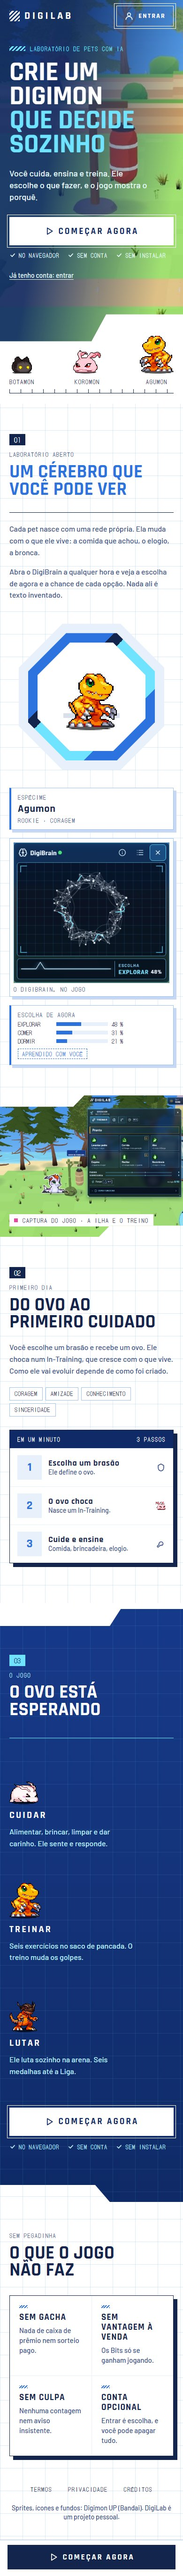
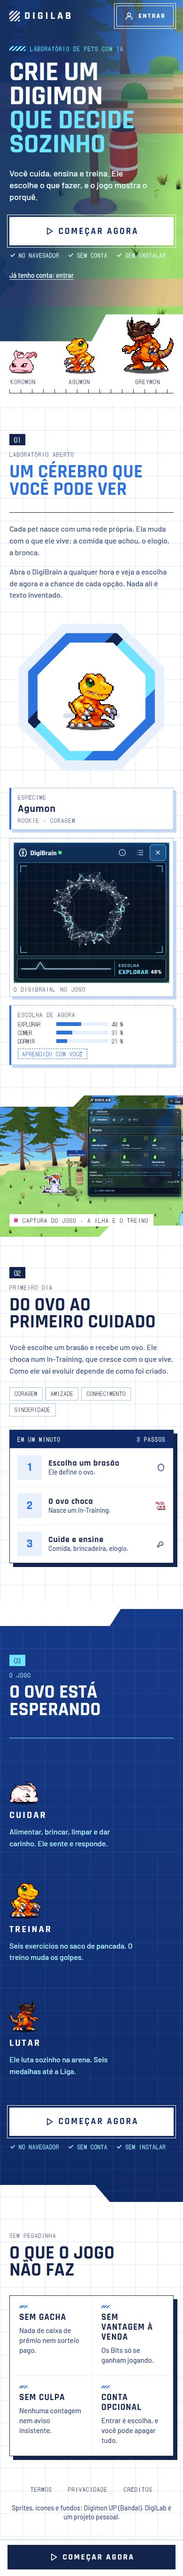
UX_TELA_PET: a regua do heroi com a linha do Agumon (Koromon a WarGreymon)

Changed region(s): [[0.6769, 0.1245, 0.9538, 0.1556], [0.3692, 0.1245, 0.5231, 0.1556], [0.0615, 0.1245, 0.1846, 0.1556]]

diff --git a/docs/pranchas/ux-pagina-inicial/inicial.html b/docs/pranchas/ux-pagina-inicial/inicial.html
@@ -23,10 +23,10 @@
     <a class="ja" href="#/config/conta">Já tenho conta: entrar</a>
   </div>
   <span class="corte" aria-hidden="true"></span>
-  <div class="fila" aria-label="Alguns dos Digimon do jogo"><figure><span class="pet" role="img" aria-label="Botamon" style="width:43px;height:36px;background-image:url('../../../../Assets/arena_up/sprites/Botamon.png');background-size:746px 562px;background-position:-48px -26px"></span><figcaption class="lcd"><b>Botamon</b><span class="nv"> · Fresh</span></figcaption></figure><figure><span class="pet vira" role="img" aria-label="Koromon" style="width:59px;height:49px;background-image:url('../../../../Assets/arena_up/sprites/Koromon.png');background-size:956px 668px;background-position:-60px -44px"></span><figcaption class="lcd"><b>Koromon</b><span class="nv"> · In-Training</span></figcaption></figure><figure><span class="pet vira" role="img" aria-label="Agumon" style="width:72px;height:80px;background-image:url('../../../../Assets/arena_up/sprites/Agumon.png');background-size:1062px 771px;background-position:-53px -19px"></span><figcaption class="lcd"><b>Agumon</b><span class="nv"> · Rookie</span></figcaption></figure><figure><span class="pet" role="img" aria-label="Tsunomon" style="width:53px;height:50px;background-image:url('../../../../Assets/arena_up/sprites/Tsunomon.png');background-size:712px 539px;background-position:-43px -30px"></span><figcaption class="lcd"><b>Tsunomon</b><span class="nv"> · In-Training</span></figcaption></figure><figure><span class="pet" role="img" aria-label="Gomamon" style="width:70px;height:56px;background-image:url('../../../../Assets/arena_up/sprites/Gomamon.png');background-size:1253px 1067px;background-position:-88px -85px"></span><figcaption class="lcd"><b>Gomamon</b><span class="nv"> · Rookie</span></figcaption></figure><figure><span class="pet" role="img" aria-label="Patamon" style="width:56px;height:68px;background-image:url('../../../../Assets/arena_up/sprites/Patamon.png');background-size:1372px 909px;background-position:-100px -44px"></span><figcaption class="lcd"><b>Patamon</b><span class="nv"> · Rookie</span></figcaption></figure></div>
+  <div class="fila" aria-label="A linha do Agumon, do In-Training ao Mega"><figure><span class="pet vira" role="img" aria-label="Koromon" style="width:59px;height:49px;background-image:url('../../../../Assets/arena_up/sprites/Koromon.png');background-size:956px 668px;background-position:-60px -44px"></span><figcaption class="lcd"><b>Koromon</b><span class="nv"> · In-Training</span></figcaption></figure><figure><span class="pet vira" role="img" aria-label="Agumon" style="width:68px;height:75px;background-image:url('../../../../Assets/arena_up/sprites/Agumon.png');background-size:996px 723px;background-position:-50px -18px"></span><figcaption class="lcd"><b>Agumon</b><span class="nv"> · Rookie</span></figcaption></figure><figure><span class="pet vira" role="img" aria-label="Greymon" style="width:110px;height:120px;background-image:url('../../../../Assets/arena_up/sprites/Greymon.png');background-size:1244px 1104px;background-position:-48px -24px"></span><figcaption class="lcd"><b>Greymon</b><span class="nv"> · Champion</span></figcaption></figure><figure><span class="pet vira" role="img" aria-label="MetalGreymon" style="width:144px;height:122px;background-image:url('../../../../Assets/arena_up/sprites/MetalGreymon.png');background-size:1733px 1096px;background-position:-88px -24px"></span><figcaption class="lcd"><b>MetalGreymon</b><span class="nv"> · Ultimate</span></figcaption></figure><figure><span class="pet vira" role="img" aria-label="WarGreymon" style="width:169px;height:136px;background-image:url('../../../../Assets/arena_up/sprites/WarGreymon_Adventure.png');background-size:3032px 2431px;background-position:-183px -194px"></span><figcaption class="lcd"><b>WarGreymon</b><span class="nv"> · Mega</span></figcaption></figure></div>
   <span class="regua" aria-hidden="true"></span>
   <span class="nota" style="right:20px;top:90px;max-width:320px">1 · a ideia do 'Explore 14K': a imagem grande (a ilha de verdade, de uma captura do jogo), o título em caixa alta e UM botão. Ele leva direto ao jogo (CN-1: sem conta)</span>
-  <span class="nota" style="right:20px;bottom:150px;max-width:300px">embaixo a imagem acaba num corte reto, em degrau (as formas do Valorant), e os pets ficam na borda, sobre uma régua de laboratório. Os nomes e os níveis são os do jogo</span>
+  <span class="nota" style="right:20px;bottom:150px;max-width:300px">embaixo a imagem acaba num corte reto, em degrau (as formas do Valorant), e os pets ficam na borda, sobre uma régua de laboratório. É a linha do Agumon no jogo (nomes.ts e formas.ts), do In-Training ao Mega; é uma das linhas possíveis, não a única</span>
 </section>
 
 <section class="sec" id="lab" aria-labelledby="t1">

diff --git a/docs/pranchas/ux-pagina-inicial/gerar.py b/docs/pranchas/ux-pagina-inicial/gerar.py
@@ -17,6 +17,8 @@
 #
 # DE ONDE VEM CADA AFIRMACAO DA PAGINA (nada do que ela diz e novo):
 #   "abre no navegador, sem conta e sem instalar" ..... docs/PLANO_V3_CONTA.md, CN-1
+#   a linha do Agumon na regua do heroi ............... web/app/motor/nomes.ts (DIGIMON_DA_FORMA: Koromon, Agumon, Greymon) e
+#                                                       motor/arena/formas.ts (MetalGreymon, Ultimate; WarGreymon, Mega)
 #   o brasao, o ovo, o primeiro cuidado ............... a jornada do jogo; os brasoes e os niveis: UI_GUIDELINES, secao 12
 #   as acoes Alimentar, Brincar, Limpar, Carinho ...... o dock da tela Pet
 #   o pet decide sozinho; o DigiBrain mostra a escolha  docs/PRODUTO_VISAO.md, secao 1; o scan do DigiBrain (ScanDigiBrain.tsx)
@@ -45,14 +47,20 @@ def ic(n: str, cls: str = "ic") -> str:
 
 
 def _primeira_faixa(ocupado: list) -> tuple[int, int]:
-    a = next(i for i, v in enumerate(ocupado) if v)
-    b = next((i for i in range(a, len(ocupado)) if not ocupado[i]), len(ocupado))
-    return a, b
+    """a primeira faixa ocupada com 8 px ou mais (algumas folhas tem um pixel solto antes do primeiro quadro)"""
+    i = 0
+    while True:
+        a = next(j for j in range(i, len(ocupado)) if ocupado[j])
+        b = next((j for j in range(a, len(ocupado)) if not ocupado[j]), len(ocupado))
+        if b - a >= 8:
+            return a, b
+        i = b
 
 
-def pet(nome: str, k: float, vira: bool = False) -> str:
+def pet(nome: str, k: float, vira: bool = False, arq: str = "") -> str:
     """o primeiro quadro da folha do Digimon (parado), achado pelo alfa: a primeira coluna de quadros e, nela, a primeira linha"""
-    im = Image.open(ASSETS / f"{nome}.png").convert("RGBA")
+    arq = arq or nome   # a folha, quando o primeiro quadro da folha do nome nao e o parado (o WarGreymon)
+    im = Image.open(ASSETS / f"{arq}.png").convert("RGBA")
     al = im.getchannel("A")
     W, H = im.size
     x0, x1 = _primeira_faixa([al.crop((x, 0, x + 1, H)).getbbox() is not None for x in range(W)])
@@ -60,7 +68,7 @@ def pet(nome: str, k: float, vira: bool = False) -> str:
     bx = al.crop((x0, y0, x1, y1)).getbbox()
     x0, x1 = x0 + bx[0], x0 + bx[2]
     return (f'<span class="pet{" vira" if vira else ""}" role="img" aria-label="{nome}" style="width:{(x1 - x0) * k:.0f}px;height:{(y1 - y0) * k:.0f}px;'
-            f"background-image:url('{G.A}/sprites/{nome}.png');background-size:{W * k:.0f}px {H * k:.0f}px;"
+            f"background-image:url('{G.A}/sprites/{arq}.png');background-size:{W * k:.0f}px {H * k:.0f}px;"
             f'background-position:{-x0 * k:.0f}px {-y0 * k:.0f}px"></span>')
 
 
@@ -90,11 +98,14 @@ TRILHAS = '''<svg class="trilhas" viewBox="0 0 1080 560" aria-hidden="true">
 </svg>'''
 
 
+ARQ = {"WarGreymon": "WarGreymon_Adventure"}   # a folha em que o primeiro quadro e o WarGreymon parado, sem a poeira do golpe
+
+
 def pagina() -> str:
     jogar = f'<a class="bt acao jogar" href="#/pet">{ic("play")}Começar agora</a>'
-    fila = "".join(f'<figure>{pet(n, k, v)}<figcaption class="lcd"><b>{n}</b><span class="nv"> · {nv}</span></figcaption></figure>'
-                   for n, k, v, nv in [("Botamon", 1.2, False, "Fresh"), ("Koromon", 1.2, True, "In-Training"), ("Agumon", 1.6, True, "Rookie"),
-                                       ("Tsunomon", 1.2, False, "In-Training"), ("Gomamon", 1.4, False, "Rookie"), ("Patamon", 1.3, False, "Rookie")])
+    fila = "".join(f'<figure>{pet(n, k, v, ARQ.get(n, ""))}<figcaption class="lcd"><b>{n}</b><span class="nv"> · {nv}</span></figcaption></figure>'
+                   for n, k, v, nv in [("Koromon", 1.2, True, "In-Training"), ("Agumon", 1.5, True, "Rookie"), ("Greymon", 2.0, True, "Champion"),
+                                       ("MetalGreymon", 1.4, True, "Ultimate"), ("WarGreymon", 2.2, True, "Mega")])
     brasoes = "".join(f'<span class="chip">{b}</span>' for b in ["Coragem", "Amizade", "Conhecimento", "Sinceridade"])
     ops = "".join(f'<span class="barra-op"><span>{o}</span><i><b style="width:{p}%"></b></i><span>{p} %</span></span>'
                   for o, p in [("explorar", 48), ("comer", 31), ("dormir", 21)])
@@ -123,10 +134,10 @@ def pagina() -> str:
     <a class="ja" href="#/config/conta">Já tenho conta: entrar</a>
   </div>
   <span class="corte" aria-hidden="true"></span>
-  <div class="fila" aria-label="Alguns dos Digimon do jogo">{fila}</div>
+  <div class="fila" aria-label="A linha do Agumon, do In-Training ao Mega">{fila}</div>
   <span class="regua" aria-hidden="true"></span>
   {nota("1 · a ideia do 'Explore 14K': a imagem grande (a ilha de verdade, de uma captura do jogo), o título em caixa alta e UM botão. Ele leva direto ao jogo (CN-1: sem conta)", "right:20px;top:90px", 320)}
-  {nota("embaixo a imagem acaba num corte reto, em degrau (as formas do Valorant), e os pets ficam na borda, sobre uma régua de laboratório. Os nomes e os níveis são os do jogo", "right:20px;bottom:150px", 300)}
+  {nota("embaixo a imagem acaba num corte reto, em degrau (as formas do Valorant), e os pets ficam na borda, sobre uma régua de laboratório. É a linha do Agumon no jogo (nomes.ts e formas.ts), do In-Training ao Mega; é uma das linhas possíveis, não a única", "right:20px;bottom:150px", 300)}
 </section>
 
 <section class="sec" id="lab" aria-labelledby="t1">

diff --git a/docs/registro/2026-11.md b/docs/registro/2026-11.md
@@ -7689,6 +7689,10 @@ incremental). Os dois saem iguais depois da etapa. Todos os números novos são 
 - **D-UXPI-11, a escolha:** o Matheus respondeu "A, a clara" (2026-11-12) à pergunta "Qual das duas páginas de entrada segue adiante?".
   A página A (`inicial.html`) é a que segue; o esboço B fica na pasta como registro. As PI-2 a PI-4 (a frase, onde a página mora, a
   passagem para o jogo escuro) não foram respondidas e continuam abertas.
+- **D-UXPI-12, a linha do Agumon:** o Matheus mandou o recorte da fila do herói e pediu "Ajustar para aqui ser a linha evolutiva do
+  agumon" (2026-11-12). A fila passou a ser Koromon, Agumon, Greymon, MetalGreymon e WarGreymon, que é a linha do jogo (`nomes.ts` e
+  `arena/formas.ts`). O Botamon saiu: o jogo começa a linha no Koromon. O WarGreymon usa a folha `WarGreymon_Adventure`, porque o primeiro
+  quadro da folha `WarGreymon` é o do golpe, com poeira. É uma das linhas possíveis da Coragem, não a única.
 ## 2026-11-12 — MOITA_NINHO: o que tapa o pet fica transparente (Claude Code, Opus 5.5, worker, branch `v3-moita-ninho`)
 
 - **D-MN-1, só na vista:** as árvores e a moita na frente do ninho são células fechadas do mapa do motor (`PLANTA_ILHA_GRANDE`); o motor,

diff --git a/docs/pranchas/ux-pagina-inicial/LEIA.md b/docs/pranchas/ux-pagina-inicial/LEIA.md
@@ -33,7 +33,7 @@ quebra a 900 px.
 
 | o bloco | o que tem |
 |---|---|
-| **o herói** | a ilha de verdade (uma captura do jogo); "Crie um Digimon que decide sozinho"; **"Começar agora"**; "No navegador · Sem conta · Sem instalar"; "Já tenho conta: entrar". Embaixo a imagem acaba num corte reto, em degrau, e seis pets ficam sobre uma régua de laboratório |
+| **o herói** | a ilha de verdade (uma captura do jogo); "Crie um Digimon que decide sozinho"; **"Começar agora"**; "No navegador · Sem conta · Sem instalar"; "Já tenho conta: entrar". Embaixo a imagem acaba num corte reto, em degrau, e a linha do Agumon fica sobre uma régua de laboratório: Koromon, Agumon, Greymon, MetalGreymon e WarGreymon, do In-Training ao Mega (pedido do Matheus; a linha é a do jogo, `motor/nomes.ts` e `motor/arena/formas.ts`) |
 | **01 · Laboratório aberto** | "Um cérebro que você pode ver": o Agumon na moldura de oito lados, a captura real do DigiBrain e a ficha "escolha de agora" |
 | **a faixa larga** | uma captura do jogo de ponta a ponta: a ilha e o treino |
 | **02 · Primeiro dia** | "Do ovo ao primeiro cuidado", os quatro brasões e a ficha dos três passos |
